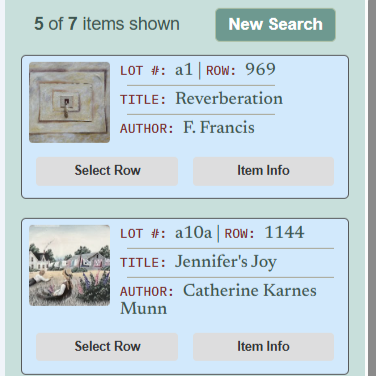
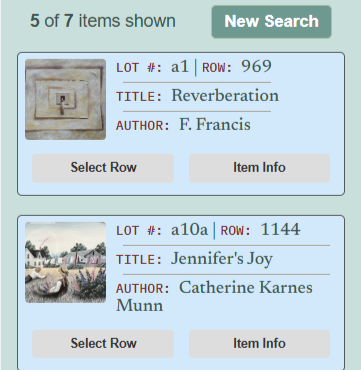
Project image is expandable now

diff --git a/index.html b/index.html
@@ -58,7 +58,6 @@
 
     <!-- CSS -->
     <link rel="stylesheet" href="style/nav_projects.css" />
-    <link rel="stylesheet" href="style/projects.css" />
     <link rel="stylesheet" href="style/scenes/common.css" />
     <link rel="stylesheet" href="style/scenes/backend_scene.css" />
     <link rel="stylesheet" href="style/scenes/commerce_scene.css" />
@@ -942,7 +941,7 @@
               <img
                 class="open-image"
                 src="src/Other World, Alex Akimov.jpg"
-                data-full="src/web/Portfolio_PlatformBS.png"
+                data-full="src/web/screencapture-akialex.png"
                 alt="Other World, Alex Akimov"
               />
               <div class="project-desc-text">
@@ -975,7 +974,6 @@
               </div>
             </div>
           </div>
-          
         </div>
         <!-- ROW 2 -->
         <div class="projects-row">
@@ -999,7 +997,7 @@
                 class="open-image gallery-project"
                 src="src/Bedores_Gallery.jpg"
                 alt="Shopify Art Gallery E-commerce Website Development"
-                data-full="src/web/Bedores_Gallery_BS.png"
+                data-full="src/web/screencapture-bedoresgallery.png"
               />
               <div class="project-desc-text">
                 <div>
@@ -1046,7 +1044,7 @@
                 class="open-image crystal-project"
                 src="src/Iva_Mage.jpg"
                 alt="Crystal Jewellery, Iva Crystal"
-                data-full="src/web/Ivamage_BS.png"
+                data-full="src/web/screencapture-ivamage.png"
               />
               <div class="project-desc-text">
                 <div>
@@ -1149,7 +1147,7 @@
                 src="src/envisionIT_CONSULTING_GROUP.jpg"
                 alt="EnvisionIT Consulting business website screenshot"
                 class="open-image"
-                data-full="src/web/envisionIT_BS.png"
+                data-full="src/web/screencapture-envisionitconsulting.png"
               />
               <div class="project-desc-text">
                 <div>
@@ -1198,7 +1196,7 @@
                 src="src/RP_Shield.jpg"
                 alt="RPShield website screenshot"
                 class="open-image"
-                data-full="src/web/RP_Shield_BS.png"
+                data-full="src/web/screencapture-rpshield-ca.png"
               />
               <div class="project-desc-text">
                 <div>
@@ -1244,7 +1242,7 @@
                 src="src/Bedores.jpg"
                 alt="Bedore's Group of Companies website screenshot"
                 class="open-image bedores-project"
-                data-full="src/web/Bedores_BS.png"
+                data-full="src/web/screencapture-bedores-ca.png"
               />
               <div class="project-desc-text">
                 <div>
@@ -1292,7 +1290,8 @@
               <img
                 src="src/HR_System.png"
                 alt="HR Management System screenshot"
-                class="hr-project"
+                class="open-image hr-project"
+                data-full="src/web/HR_BS.png"
               />
               <div class="project-desc-text">
                 <div>
@@ -1341,7 +1340,7 @@
                 src="src/Google_search.png"
                 alt="Google Sheet inventory search tool screenshot"
                 class="open-image google-project"
-                data-full="src/web/Google_Sheets_BS.png"
+                data-full="src/web/Search_tool_BS.png"
               />
               <div class="project-desc-text">
                 <div>

diff --git a/style/nav_projects.css b/style/nav_projects.css
@@ -388,6 +388,84 @@ nav i {
   padding: 3px 10px;
 }
 
+/*Open Image_________________________________________________*/
+.open-image {
+  cursor: zoom-in;
+}
+
+.project-image {
+  position: fixed;
+  inset: 0;
+
+  display: flex;
+  align-items: center;
+  justify-content: center;
+
+  background: rgba(0, 0, 0, 0.75);
+
+  opacity: 0;
+  visibility: hidden;
+  pointer-events: none;
+
+  transition:
+    opacity 0.3s ease,
+    visibility 0.3s ease;
+
+  z-index: 9999;
+}
+
+.project-image.is-open {
+  opacity: 1;
+  visibility: visible;
+  pointer-events: auto;
+}
+
+.project-image-wrap {
+  position: relative;
+  display: inline-block;
+  padding: 20px;
+  border-radius: 10px;
+  border: 1px solid #a8dcf096;
+  backdrop-filter: blur(2px);
+  -webkit-backdrop-filter: blur(2px);
+}
+
+.project-image-open {
+  display: block;
+  max-width: 90vw;
+  max-height: 90vh;
+  width: auto;
+  height: auto;
+  border: 1px solid #a8dcf096;
+  border-radius: 10px;
+  cursor: zoom-out;
+}
+
+.project-image-close {
+  position: absolute;
+  top: 30px;
+  right: 30px;
+
+  width: 32px;
+  height: 32px;
+
+  display: flex;
+  align-items: center;
+  justify-content: center;
+  padding: 5px;
+  border: 1px solid rgba(255, 255, 255, 0.251);
+  border-radius: 8px;
+  background: rgba(89, 88, 88, 0.582);
+  color: rgb(254, 254, 254);
+  cursor: pointer;
+  z-index: 1;
+  text-shadow:
+    0 1px 2px rgba(0, 0, 0, 0.2),
+    0 3px 6px rgba(0, 0, 0, 0.4);
+  backdrop-filter: blur(4px);
+  -webkit-backdrop-filter: blur(4px);
+}
+
 /*SCROLL TO TOP_________________________________________________*/
 #scrollTopBtn {
   display: none;
@@ -538,13 +616,12 @@ footer a:hover {
   }
 
   .project-card-content {
-    /* flex-direction: row; */
     gap: 1em;
   }
 
   #projects img {
-    width: 310px;
-    height: 110px;
+    width: 100%;
+    height: 105px;
   }
 
   .cat-project {
@@ -587,6 +664,16 @@ footer a:hover {
 
   .project-footer {
     min-height: 2em;
+  }
+
+  .project-image-wrap {
+    max-width: 95%;
+    padding: 15px;
+  }
+
+  .project-image-open {
+    margin: 0 auto;
+    max-width: 100%;
   }
 
   footer,
